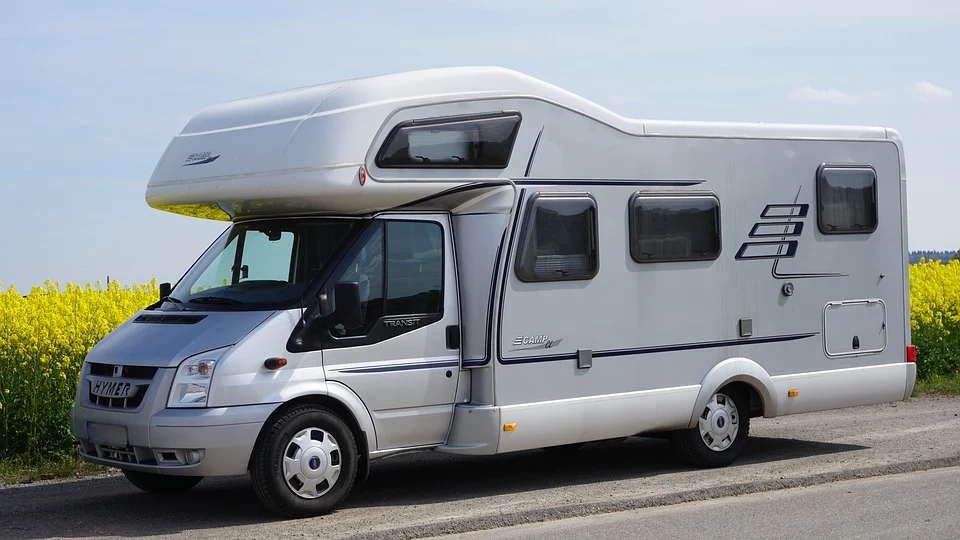
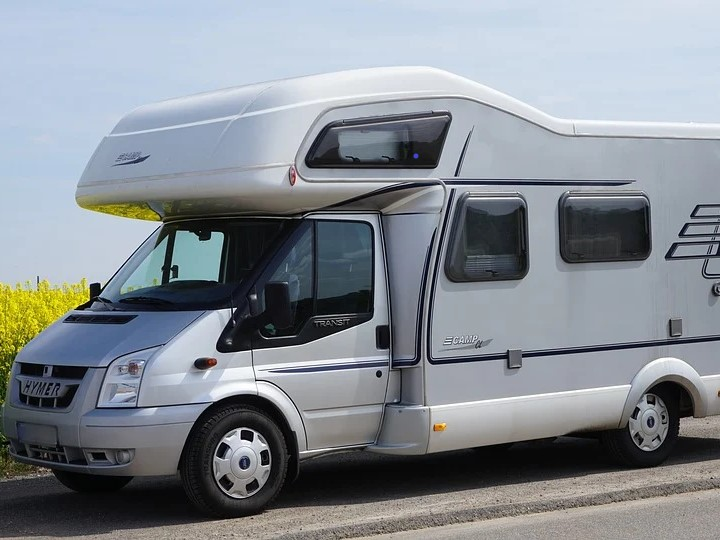
Minor changes to imgs

diff --git a/Web Application/src/main/resources/templates/home/index.html b/Web Application/src/main/resources/templates/home/index.html
@@ -7,8 +7,8 @@
 </head>
 <body>
     <div th:replace="fragments/navbar :: navbar"></div>
-    <div style="display: flex; align-items: center; justify-content: center">
-        <img src="motorhome-card.jpg" alt="" class="w3-card">
+    <div style="display: flex; align-items: center; justify-content: center; padding-top: 400px">
+        <img width="400" height="300" src="motorhome-card.jpg" alt="" class="w3-card">
         <img src="customer-card.jpg" alt="" class="w3-card">
     </div>
 </body>
